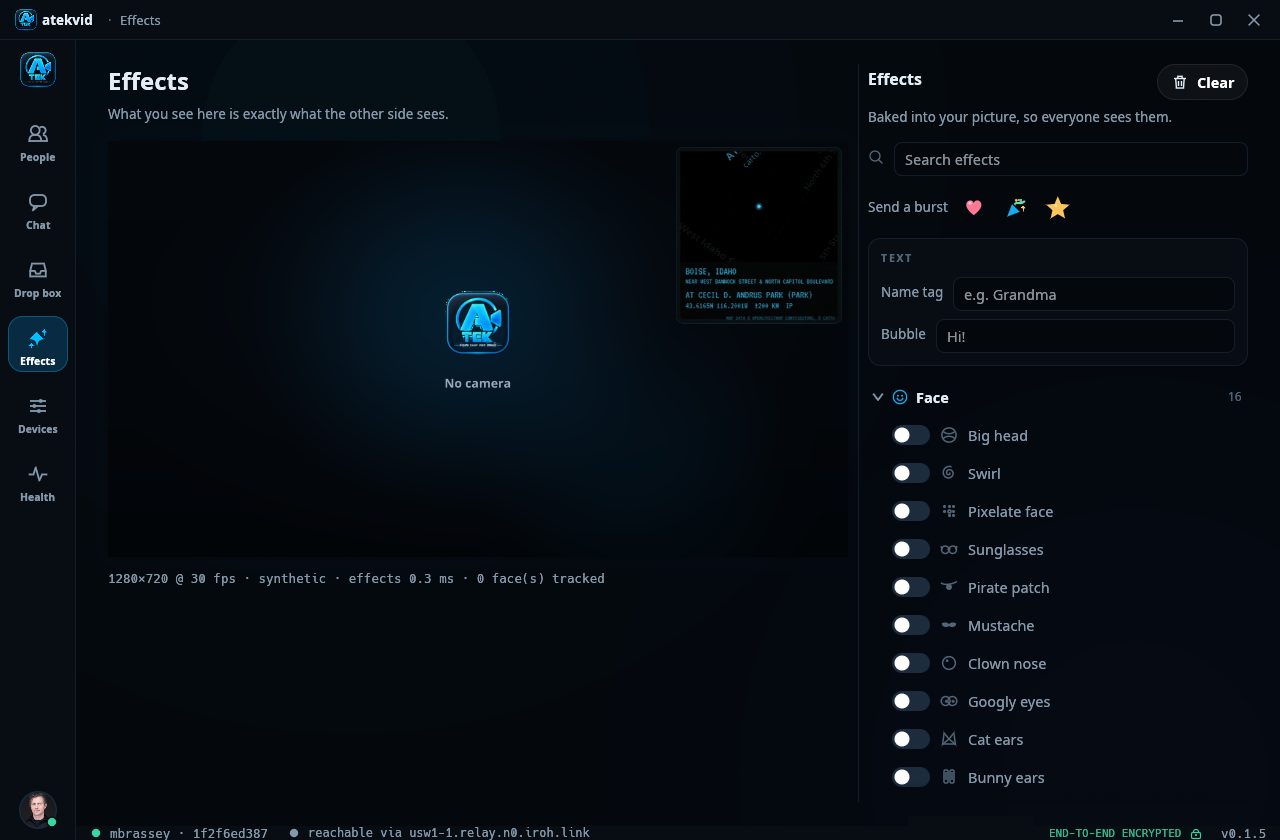
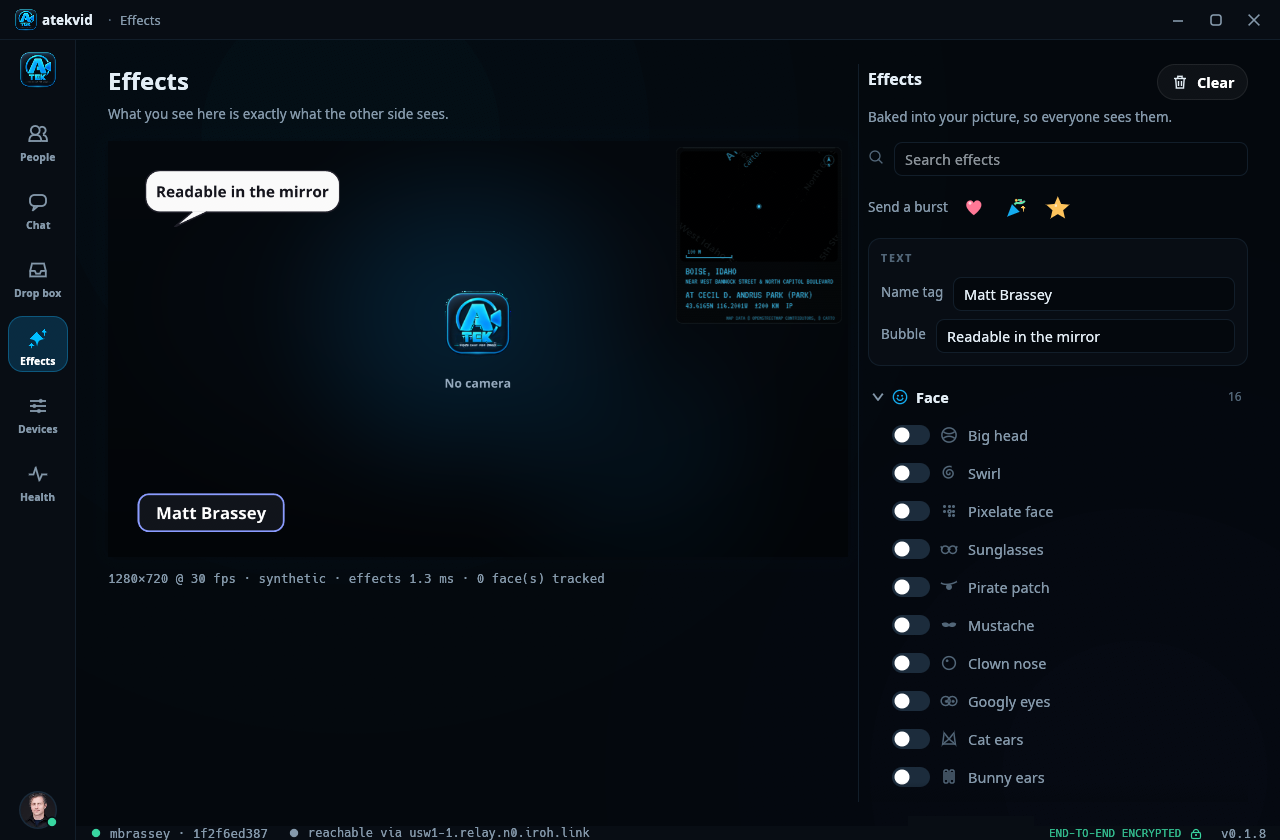
Document screen sharing, the readable self-preview and the translucent map
Screen and window sharing on Wayland (desktop portal, PipeWire helper) and
X11, several people at once, with a screenshot; the X shortcut; the helper
in the archive and its runtime library; the effects screenshot with the new
map; troubleshooting for the share button.

Changed region(s): [[0.0938, 0.1857, 0.2812, 0.2786], [0.75, 0.3405, 0.8125, 0.4333], [0.0938, 0.5881, 0.2188, 0.619]]

diff --git a/README.md b/README.md
@@ -57,6 +57,7 @@ by hand.
 | Sound | PipeWire (`pipewire-pulse`) or PulseAudio |
 | Camera | any V4L2 camera (MJPEG, YUYV, NV12, RGB); optional, a test pattern stands in |
 | Display | X11 or Wayland; OpenGL 3.x |
+| Screen sharing | Wayland: the desktop's ScreenCast portal (`xdg-desktop-portal` with the KDE, GNOME, wlr or Hyprland backend) and PipeWire. X11: nothing extra |
 | Tray | KDE, Cinnamon, XFCE, MATE, LXQt, Budgie; GNOME with the AppIndicator extension Ubuntu ships |
 | Account | a GitHub account on the circle's allow-list, with this device's key registered as an SSH signing key |
 
@@ -69,6 +70,13 @@ by hand.
   Every participant holds a direct encrypted media session with every other
   participant, everyone sees and hears everyone, and every connection has its
   own safety code.
+- **Screen sharing.** Share a screen or a single window with everyone in the
+  call; several people can share at once. On Wayland the desktop's own picker
+  chooses what is shared (through the ScreenCast portal and PipeWire); on X11
+  any monitor or window is captured directly, pointer included. Shared
+  screens take the stage and the cameras move to a strip beside them. Each
+  share is its own end-to-end encrypted stream, up to 1600 px wide, tuned for
+  legible text.
 - **Presence that is true.** *Online* means the other person's atekvid is
   open. Clients connect to each other the moment they start and drop off the
   list within seconds of closing.
@@ -76,10 +84,11 @@ by hand.
   props (sunglasses, hats, crown, cat and bunny ears, mustache, googly eyes…),
   funhouse warps, looks (old film, thermal, night vision, cartoon…), particles
   (hearts, snow, confetti, bubbles, sparkles), a name tag, a speech bubble,
-  reaction bursts, and a CRT-style *where am I* map showing your city, nearest
-  cross streets and the hotel, museum or airport you are in, tucked into a
-  corner and readable in your own mirrored preview. Your own PNG overlays load
-  as plugins.
+  reaction bursts, and a translucent CRT-style *where am I* map showing your
+  city, nearest cross streets, the hotel, museum or airport you are in, a
+  scale bar and a north arrow, tucked into a corner. Your own PNG overlays
+  load as plugins. Text and the map are drawn over your mirrored self-preview
+  the right way round, so you read exactly what everyone else sees.
 - **Chat**, end-to-end encrypted per session, with Markdown, links, a custom
   emoji set drawn in the app's palette, typing indicator and delivery ticks.
   In a group call the chat drawer reaches everyone in the call.
@@ -102,9 +111,10 @@ by hand.
   controls, a hand-drawn icon set, and quiet sounds for rings, messages, files
   and reactions.
 
-Keyboard in a call: **M** mute · **V** camera · **E** effects · **C** chat ·
-**D** drop box · **I** add people · **S** snapshot · **R** record ·
-**F** fullscreen · **Esc** leave fullscreen · **Ctrl+Q** quit.
+Keyboard in a call: **M** mute · **V** camera · **X** share screen ·
+**E** effects · **C** chat · **D** drop box · **I** add people ·
+**S** snapshot · **R** record · **F** fullscreen · **Esc** leave fullscreen ·
+**Ctrl+Q** quit.
 
 ## Screens
 
@@ -124,6 +134,12 @@ ring, connection quality and a name pill; your own picture in the corner; the
 control bar, reactions, *Add people*, safety codes and statistics.
 
 <p align="center"><img src="docs/call.png" width="820" alt="Group call"></p>
+
+**Screen sharing.** A participant's shared window takes the stage; the cameras
+move to a strip beside it. Several people can share at the same time, and the
+person sharing sees their own share with a *Stop* button.
+
+<p align="center"><img src="docs/call-share.png" width="820" alt="A shared screen in a call"></p>
 
 **Drop box in a call.** A file offered by a participant, ready to download.
 
@@ -206,19 +222,30 @@ the call continues for the rest.
 camera (V4L2) → JPEG/YUV decode → effects (face tracking, sprites, warps, map)
    → OpenH264 encode (adaptive ladder 180p…1080p) → seal → QUIC streams
 microphone (Pulse/PipeWire) → gain, noise gate → Opus (32 kb/s, FEC) → seal → datagrams
-network → open → per-participant OpenH264 decoders → tiles
+shared screen (portal + PipeWire helper, or X11 GetImage) → scale to ≤1600 px
+   → OpenH264 encode (10 fps, own bit budget) → seal → QUIC streams
+network → open → per-participant OpenH264 decoders (camera and screen) → tiles
 network → open → per-participant Opus decoders + jitter buffers → mix → speaker
 ```
 
 Encoding happens once per frame regardless of participants. The encoder
 ladder reacts to send latency and queue depth; a keyframe is requested
 whenever a participant loses sync. Recording muxes the already-encoded H.264
-and both voices into MKV, so it costs nothing extra.
+and both voices into MKV, so it costs nothing extra. A shared screen travels
+as a second video stream on its own key lane; on Wayland the capture runs in
+the separate `atekvid-screencast` process (XDG ScreenCast portal, PipeWire),
+so the app itself links no PipeWire library and a portal problem cannot touch
+a call; on X11 the app reads the X server directly (RandR monitors, any
+window, XFixes cursor).
 
 ### Effects and the map
 
 Face detection uses a bundled SeetaFace model (`rustface`), sprites are drawn
-with `tiny-skia`, text with `ab_glyph`. Plugins are folders with a `plugin.toml`
+with `tiny-skia`, text with `ab_glyph`. Effects are baked into the outgoing
+picture; the name tag, the speech bubble and the map are composed last and
+reported to the interface as layers, which draws them over the mirrored
+self-preview without mirroring the text (a bubble's tail still flips with the
+face it points at). Plugins are folders with a `plugin.toml`
 and PNG layers anchored to face landmarks. The map overlay locates the machine
 through nearby Wi-Fi networks (BeaconDB) or the public IP, describes the place
 with OpenStreetMap data (Nominatim, Overpass) and renders CARTO dark tiles in a
@@ -232,12 +259,14 @@ because Wayland allows neither hiding nor restoring a window on request; the
 application state lives on regardless. The tray item speaks the
 StatusNotifierItem protocol over D-Bus (pure Rust, `ksni`); notifications use
 `org.freedesktop.Notifications`. The installer adds a `.desktop` entry and a
-login autostart entry (`atekvid --hidden`).
+login autostart entry (`atekvid --hidden`), and puts the `atekvid-screencast`
+helper next to the app.
 
 ### Releases and updates
 
 Releases are built on Ubuntu 22.04 by GitHub Actions in the private source
-repository and published here. Each archive is signed with the atekvid release
+repository and published here. The archive holds the app, the
+`atekvid-screencast` helper, the installer and the packaging files. Each archive is signed with the atekvid release
 key using OpenSSH signatures (`ssh-keygen -Y sign`, namespace
 `atekvid-release`); the public half is compiled into the app and written into
 `install.sh`. The app refuses any update whose signature does not verify, and
@@ -295,6 +324,8 @@ atekvid is written in Rust. The main building blocks:
 | Sprites, overlays, text | `tiny-skia`, `ab_glyph`, `image` | 0.12.0, 0.2.32, 0.25.10 |
 | Key exchange and encryption | `x25519-dalek`, `hkdf`, `sha2`, `chacha20poly1305` | 3.0.0, 0.13.0, 0.11.0, 0.11.0 |
 | Release signature verification | `ssh-key` | 0.6.7 |
+| Screen sharing (Wayland portal, PipeWire; helper only) | `ashpd`, `pipewire`, `libspa` | 0.13.13, 0.10.1, 0.10.1 |
+| Screen sharing (X11 capture) | `x11rb` (RandR, XFixes) | 0.14 |
 | Async runtime | `tokio` | 1.53 |
 | Wire format | `postcard`, `serde` | 1.1.3 |
 | System tray, notifications | `ksni`, `notify-rust` | 0.3.6, 4.17.0 |
@@ -304,7 +335,8 @@ atekvid is written in Rust. The main building blocks:
 Runtime dependencies of the binary are the C libraries `libpulse`,
 `libpulse-simple` and `libopus` (with what they pull in: `libsndfile`,
 `libdbus`, `libxcb`); everything else, including the H.264 codec and TLS, is
-compiled in. The archive is about 19 MB.
+compiled in. The `atekvid-screencast` helper additionally needs
+`libpipewire-0.3`. The archive is about 20 MB.
 
 ## Command line
 
@@ -386,12 +418,18 @@ the example shipped in every release shows the format.
   pattern.
 - **The update was refused.** The archive's signature did not verify against
   the release key. Do not install it; the same check protects the installer.
+- **Share screen does nothing, or says the helper is missing.** On Wayland
+  sharing needs `atekvid-screencast` next to the app (the installer puts it
+  there) and a desktop that offers the ScreenCast portal; `atekvid doctor`
+  says which. On X11 the whole screen is offered only when the X server lets
+  the root window be read (under Xwayland only windows can be shared).
+  `ATEKVID_SHARE_BACKEND=x11` or `=portal` forces one path.
 - **Nothing in the tray on GNOME.** Install the AppIndicator extension
   (`gnome-shell-extension-appindicator`); the window still works without it,
   and closing it then quits.
 
-`atekvid doctor` checks the sound server, camera, GitHub keys, the relay and
-the identity link, and `atekvid --view health` shows the same live. The app
+`atekvid doctor` checks the sound server, camera, screen sharing, GitHub
+keys, the relay and the identity link, and `atekvid --view health` shows the same live. The app
 also writes `~/.cache/atekvid/atekvid.log` (link ups and downs, dial failures,
 update checks); send that file along when reporting a problem.
 
